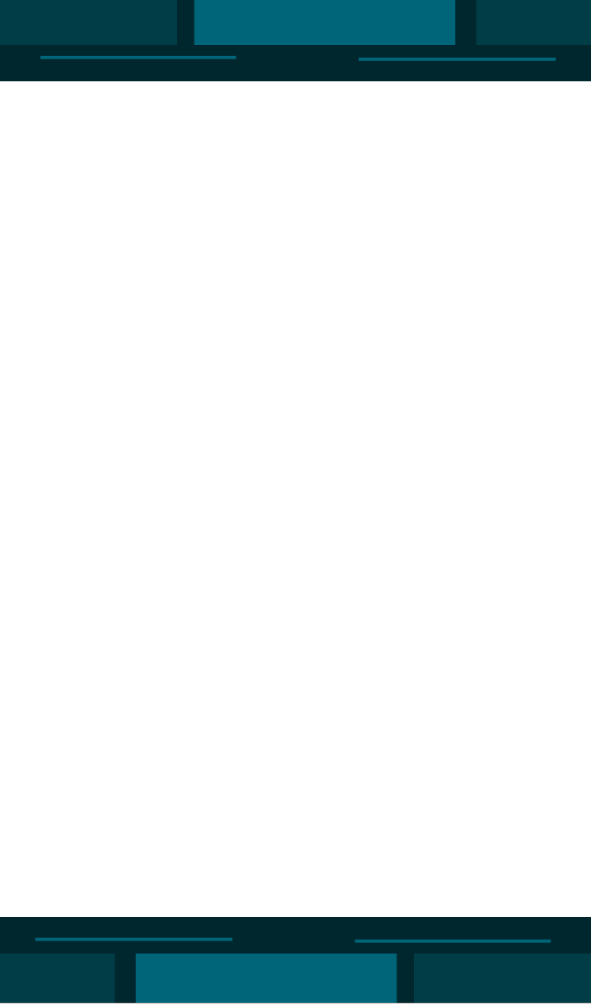
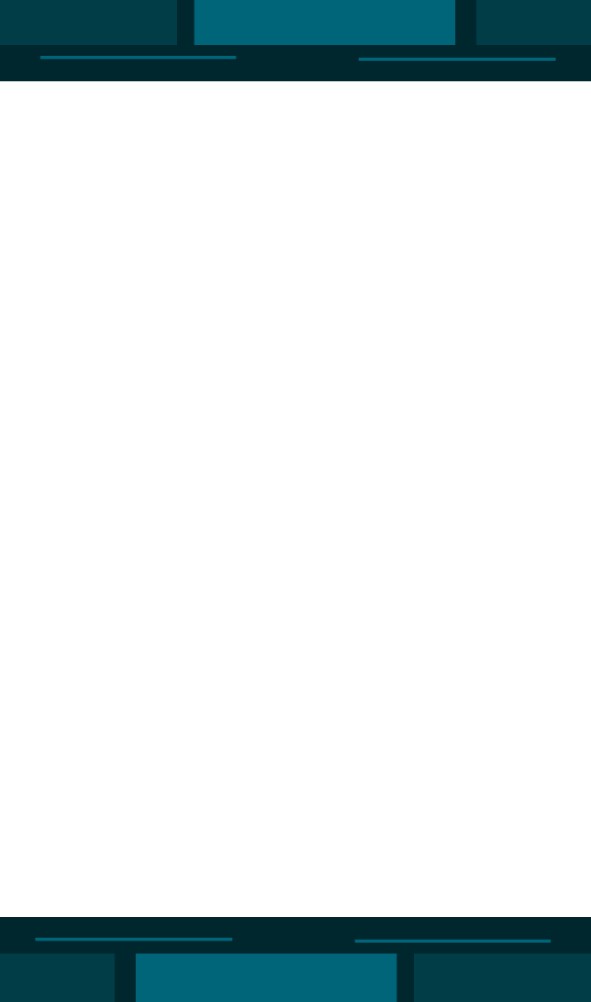
new da nicepage

Changed region(s): [[0.0, 0.99, 1.0, 1.0], [0.5787, 0.9281, 0.9137, 0.9591], [0.0609, 0.9281, 0.3959, 0.9591]]

diff --git a/Vcard.css b/Vcard.css
@@ -1,17 +1,11 @@
 .u-section-1 .u-sheet-1 {
-  min-height: 1176px;
+  min-height: 1020px;
 }
 
 .u-section-1 .u-image-1 {
   width: 570px;
   height: 956px;
-  margin: 43px auto 0;
-}
-
-.u-section-1 .u-image-2 {
-  width: 570px;
-  height: 968px;
-  margin: -968px auto 0;
+  margin: 1px auto 0;
 }
 
 .u-section-1 .u-text-1 {
@@ -71,10 +65,16 @@
   padding: 9px;
 }
 
+.u-section-1 .u-image-2 {
+  width: 570px;
+  height: 962px;
+  margin: -820px auto 0;
+}
+
 .u-section-1 .u-image-3 {
   width: 570px;
   height: 322px;
-  margin: -750px auto 0;
+  margin: -892px auto 0;
 }
 
 .u-section-1 .u-image-4 {
@@ -84,44 +84,36 @@
 }
 
 @media (max-width: 1199px) {
-  .u-section-1 .u-image-1 {
-    height: 962px;
-    margin-top: 37px;
+  .u-section-1 .u-sheet-1 {
+    min-height: 1008px;
   }
 
-  .u-section-1 .u-image-2 {
-    height: 978px;
-    margin-top: -978px;
+  .u-section-1 .u-image-1 {
+    height: 962px;
   }
 
   .u-section-1 .u-text-1 {
     width: auto;
-    margin-top: -546px;
   }
 
   .u-section-1 .u-btn-1 {
-    margin-top: 152px;
     margin-left: auto;
   }
 
   .u-section-1 .u-text-2 {
     width: auto;
-    margin-top: -205px;
     margin-left: auto;
   }
 
   .u-section-1 .u-icon-1 {
-    margin-top: 206px;
     margin-left: 293px;
   }
 
   .u-section-1 .u-icon-2 {
-    margin-top: -72px;
     margin-left: 387px;
   }
 
   .u-section-1 .u-icon-3 {
-    margin-top: -75px;
     margin-left: 574px;
   }
 
@@ -129,27 +121,17 @@
     margin-left: 479px;
   }
 
-  .u-section-1 .u-image-3 {
-    margin-top: -756px;
+  .u-section-1 .u-image-2 {
+    margin-top: -827px;
   }
 
-  .u-section-1 .u-image-4 {
-    margin-top: -309px;
+  .u-section-1 .u-image-3 {
+    margin-top: -942px;
   }
 }
 
 @media (max-width: 991px) {
-  .u-section-1 .u-image-2 {
-    height: 970px;
-    margin-top: -966px;
-  }
-
-  .u-section-1 .u-text-1 {
-    margin-top: -557px;
-  }
-
   .u-section-1 .u-icon-1 {
-    margin-top: 196px;
     margin-left: 162px;
   }
 
@@ -158,7 +140,6 @@
   }
 
   .u-section-1 .u-icon-3 {
-    margin-top: -74px;
     margin-left: 484px;
   }
 
@@ -167,60 +148,40 @@
   }
 
   .u-section-1 .u-image-3 {
-    margin-top: -745px;
-  }
-
-  .u-section-1 .u-image-4 {
-    margin-top: -295px;
+    margin-top: -949px;
   }
 }
 
 @media (max-width: 767px) {
   .u-section-1 .u-sheet-1 {
-    min-height: 990px;
+    min-height: 928px;
   }
 
   .u-section-1 .u-image-1 {
     height: 912px;
-    margin-top: 31px;
-    margin-right: initial;
-    margin-left: initial;
-    width: auto;
-  }
-
-  .u-section-1 .u-image-2 {
-    height: 919px;
-    margin-top: -912px;
+    margin-top: 0;
     margin-right: initial;
     margin-left: initial;
     width: auto;
   }
 
   .u-section-1 .u-text-1 {
-    margin-top: -511px;
-  }
-
-  .u-section-1 .u-btn-1 {
-    margin-top: 133px;
+    margin-top: -499px;
   }
 
   .u-section-1 .u-text-2 {
     font-size: 1.25rem;
-    margin-top: -197px;
   }
 
   .u-section-1 .u-icon-1 {
-    margin-top: 185px;
     margin-left: 81px;
   }
 
   .u-section-1 .u-icon-2 {
-    margin-top: -76px;
     margin-left: 181px;
   }
 
   .u-section-1 .u-icon-3 {
-    margin-top: -72px;
     margin-left: 385px;
   }
 
@@ -228,9 +189,16 @@
     margin-left: 283px;
   }
 
+  .u-section-1 .u-image-2 {
+    height: 911px;
+    margin-right: initial;
+    margin-left: initial;
+    width: auto;
+  }
+
   .u-section-1 .u-image-3 {
     height: 305px;
-    margin-top: -707px;
+    margin-top: -841px;
     margin-right: initial;
     margin-left: initial;
     width: auto;
@@ -239,26 +207,18 @@
   .u-section-1 .u-image-4 {
     width: 246px;
     height: 246px;
-    margin-top: -277px;
+    margin-top: -279px;
+    margin-bottom: 570px;
   }
 }
 
 @media (max-width: 575px) {
   .u-section-1 .u-sheet-1 {
-    min-height: 650px;
+    min-height: 387px;
   }
 
   .u-section-1 .u-image-1 {
     height: 594px;
-    margin-top: 32px;
-    width: auto;
-    margin-right: initial;
-    margin-left: initial;
-  }
-
-  .u-section-1 .u-image-2 {
-    height: 594px;
-    margin-top: -594px;
     width: auto;
     margin-right: initial;
     margin-left: initial;
@@ -266,18 +226,15 @@
 
   .u-section-1 .u-text-1 {
     font-size: 2.25rem;
-    margin-top: -349px;
   }
 
   .u-section-1 .u-btn-1 {
     font-size: 1.125rem;
-    margin-top: 86px;
     padding: 0 32px 0 31px;
   }
 
   .u-section-1 .u-text-2 {
     font-size: 1rem;
-    margin-top: -113px;
     margin-left: 15px;
     margin-right: 15px;
   }
@@ -285,7 +242,6 @@
   .u-section-1 .u-icon-1 {
     width: 45px;
     height: 45px;
-    margin-top: 107px;
     margin-left: 42px;
     padding: 7px;
   }
@@ -293,7 +249,6 @@
   .u-section-1 .u-icon-2 {
     width: 46px;
     height: 46px;
-    margin-top: -46px;
     margin-left: 112px;
     padding: 6px;
   }
@@ -301,7 +256,6 @@
   .u-section-1 .u-icon-3 {
     width: 46px;
     height: 46px;
-    margin-top: -46px;
     margin-left: 253px;
     padding: 5px;
   }
@@ -309,14 +263,12 @@
   .u-section-1 .u-icon-4 {
     width: 45px;
     height: 45px;
-    margin-top: -46px;
     margin-left: 183px;
     padding: 5px;
   }
 
   .u-section-1 .u-image-3 {
     height: 193px;
-    margin-top: -451px;
     width: auto;
     margin-right: initial;
     margin-left: initial;
@@ -325,7 +277,6 @@
   .u-section-1 .u-image-4 {
     width: 153px;
     height: 153px;
-    margin-top: -172px;
     margin-right: 88px;
   }
 }

diff --git a/index.html b/index.html
@@ -4,9 +4,9 @@
     <meta charset="utf-8">
     <meta name="keywords" content="">
     <meta name="description" content="">
-    <title>Home</title>
+    <title>Vcard</title>
     <link rel="stylesheet" href="nicepage.css" media="screen">
-<link rel="stylesheet" href="Home.css" media="screen">
+<link rel="stylesheet" href="Vcard.css" media="screen">
     <script class="u-script" type="text/javascript" src="jquery.js" defer=""></script>
     <script class="u-script" type="text/javascript" src="nicepage.js" defer=""></script>
     <meta name="generator" content="Nicepage 4.20.3, nicepage.com">
@@ -21,37 +21,24 @@
 		"url": "/"
 }</script>
     <meta name="theme-color" content="#478ac9">
-    <meta property="og:title" content="Home">
+    <meta property="og:title" content="Vcard">
     <meta property="og:type" content="website">
     <link rel="canonical" href="/">
   </head>
-  <body data-home-page="https://website3189451.nicepage.io/Home.html?version=d26faf26-6fa3-4762-b0ef-00c52d5ed074" data-home-page-title="Home" class="u-body u-overlap u-overlap-contrast u-overlap-transparent u-stick-footer u-xl-mode" data-lang="it"><header class="u-black u-clearfix u-header u-header" id="sec-5a46"><div class="u-clearfix u-sheet u-sheet-1"></div></header>
+  <body data-home-page="https://website3189451.nicepage.io/Vcard.html?version=694f4b7b-ada4-4849-9872-4ec549fe7942" data-home-page-title="Vcard" class="u-body u-stick-footer u-xl-mode" data-lang="it"><header class="u-black u-clearfix u-header u-header" id="sec-5a46"><div class="u-clearfix u-sheet u-sheet-1"></div></header>
     <section class="u-black u-clearfix u-section-1" id="sec-4e0c">
-      <div class="u-clearfix u-sheet u-sheet-1">
+      <div class="u-clearfix u-sheet u-valign-middle-sm u-valign-middle-xs u-sheet-1">
         <img class="u-expanded-width-sm u-expanded-width-xs u-image u-image-default u-image-1" src="/images/SfondoCompletoCanva.png" alt="" data-image-width="591" data-image-height="1004">
-        <img class="u-expanded-width-sm u-expanded-width-xs u-image u-image-default u-image-2" src="/images/CorniciCanva.png" alt="" data-image-width="591" data-image-height="1004">
         <p class="u-custom-font u-text u-text-default u-text-1">Federico Betta<br>
         </p>
         <a href="https://federicobetta.github.io/federicobetta.vcf" class="u-border-none u-btn u-btn-round u-button-style u-custom-color-1 u-custom-font u-radius-50 u-btn-1"> SAVE CONTACT</a>
         <p class="u-align-center u-custom-font u-text u-text-default u-text-2"> Video _ Redazione _ Teatro _ Organizzazione<br>Educazione all'immagine _ Marketing
         </p><span class="u-border-4 u-border-white u-file-icon u-icon u-icon-circle u-text-white u-icon-1" data-href="tel:00393470833912"><img src="/images/21dafb4e-118c-4ccd-af40-94e0fa927409-6e2d4d92.png" alt=""></span><span class="u-border-4 u-border-white u-file-icon u-icon u-icon-circle u-text-white u-icon-2" data-href="https://nicepage.com/html-templates"><img src="/images/2099199-a2da4eee.png" alt=""></span><span class="u-border-4 u-border-white u-file-icon u-icon u-icon-circle u-text-white u-icon-3" data-href="https://vimeo.com/federicobetta" data-target="_blank"><img src="/images/733637-92b1611f.png" alt=""></span><span class="u-border-4 u-border-white u-file-icon u-icon u-icon-circle u-text-white u-icon-4" data-href="https://www.linkedin.com/in/fbetta/" data-target="_blank"><img src="/images/3128219-f53d3930.png" alt=""></span>
+        <img class="u-expanded-width-sm u-expanded-width-xs u-image u-image-default u-image-2" src="/images/CorniciCanva.png" alt="" data-image-width="591" data-image-height="1002">
         <img class="u-expanded-width-sm u-expanded-width-xs u-image u-image-contain u-image-default u-image-3" src="/images/SfondoCanva.png" alt="" data-image-width="590" data-image-height="333">
         <img class="u-border-4 u-border-custom-color-2 u-image u-image-circle u-preserve-proportions u-image-4" src="/images/photo.jpeg" alt="" data-image-width="320" data-image-height="320">
       </div>
     </section>
     
-    
-    
-    <section class="u-backlink u-clearfix u-grey-80">
-      <a class="u-link" href="https://nicepage.com/website-templates" target="_blank">
-        <span>Website Template</span>
-      </a>
-      <p class="u-text">
-        <span>created with</span>
-      </p>
-      <a class="u-link" href="" target="_blank">
-        <span>Website Builder Software</span>
-      </a>. 
-    </section>
   
 </body></html>
